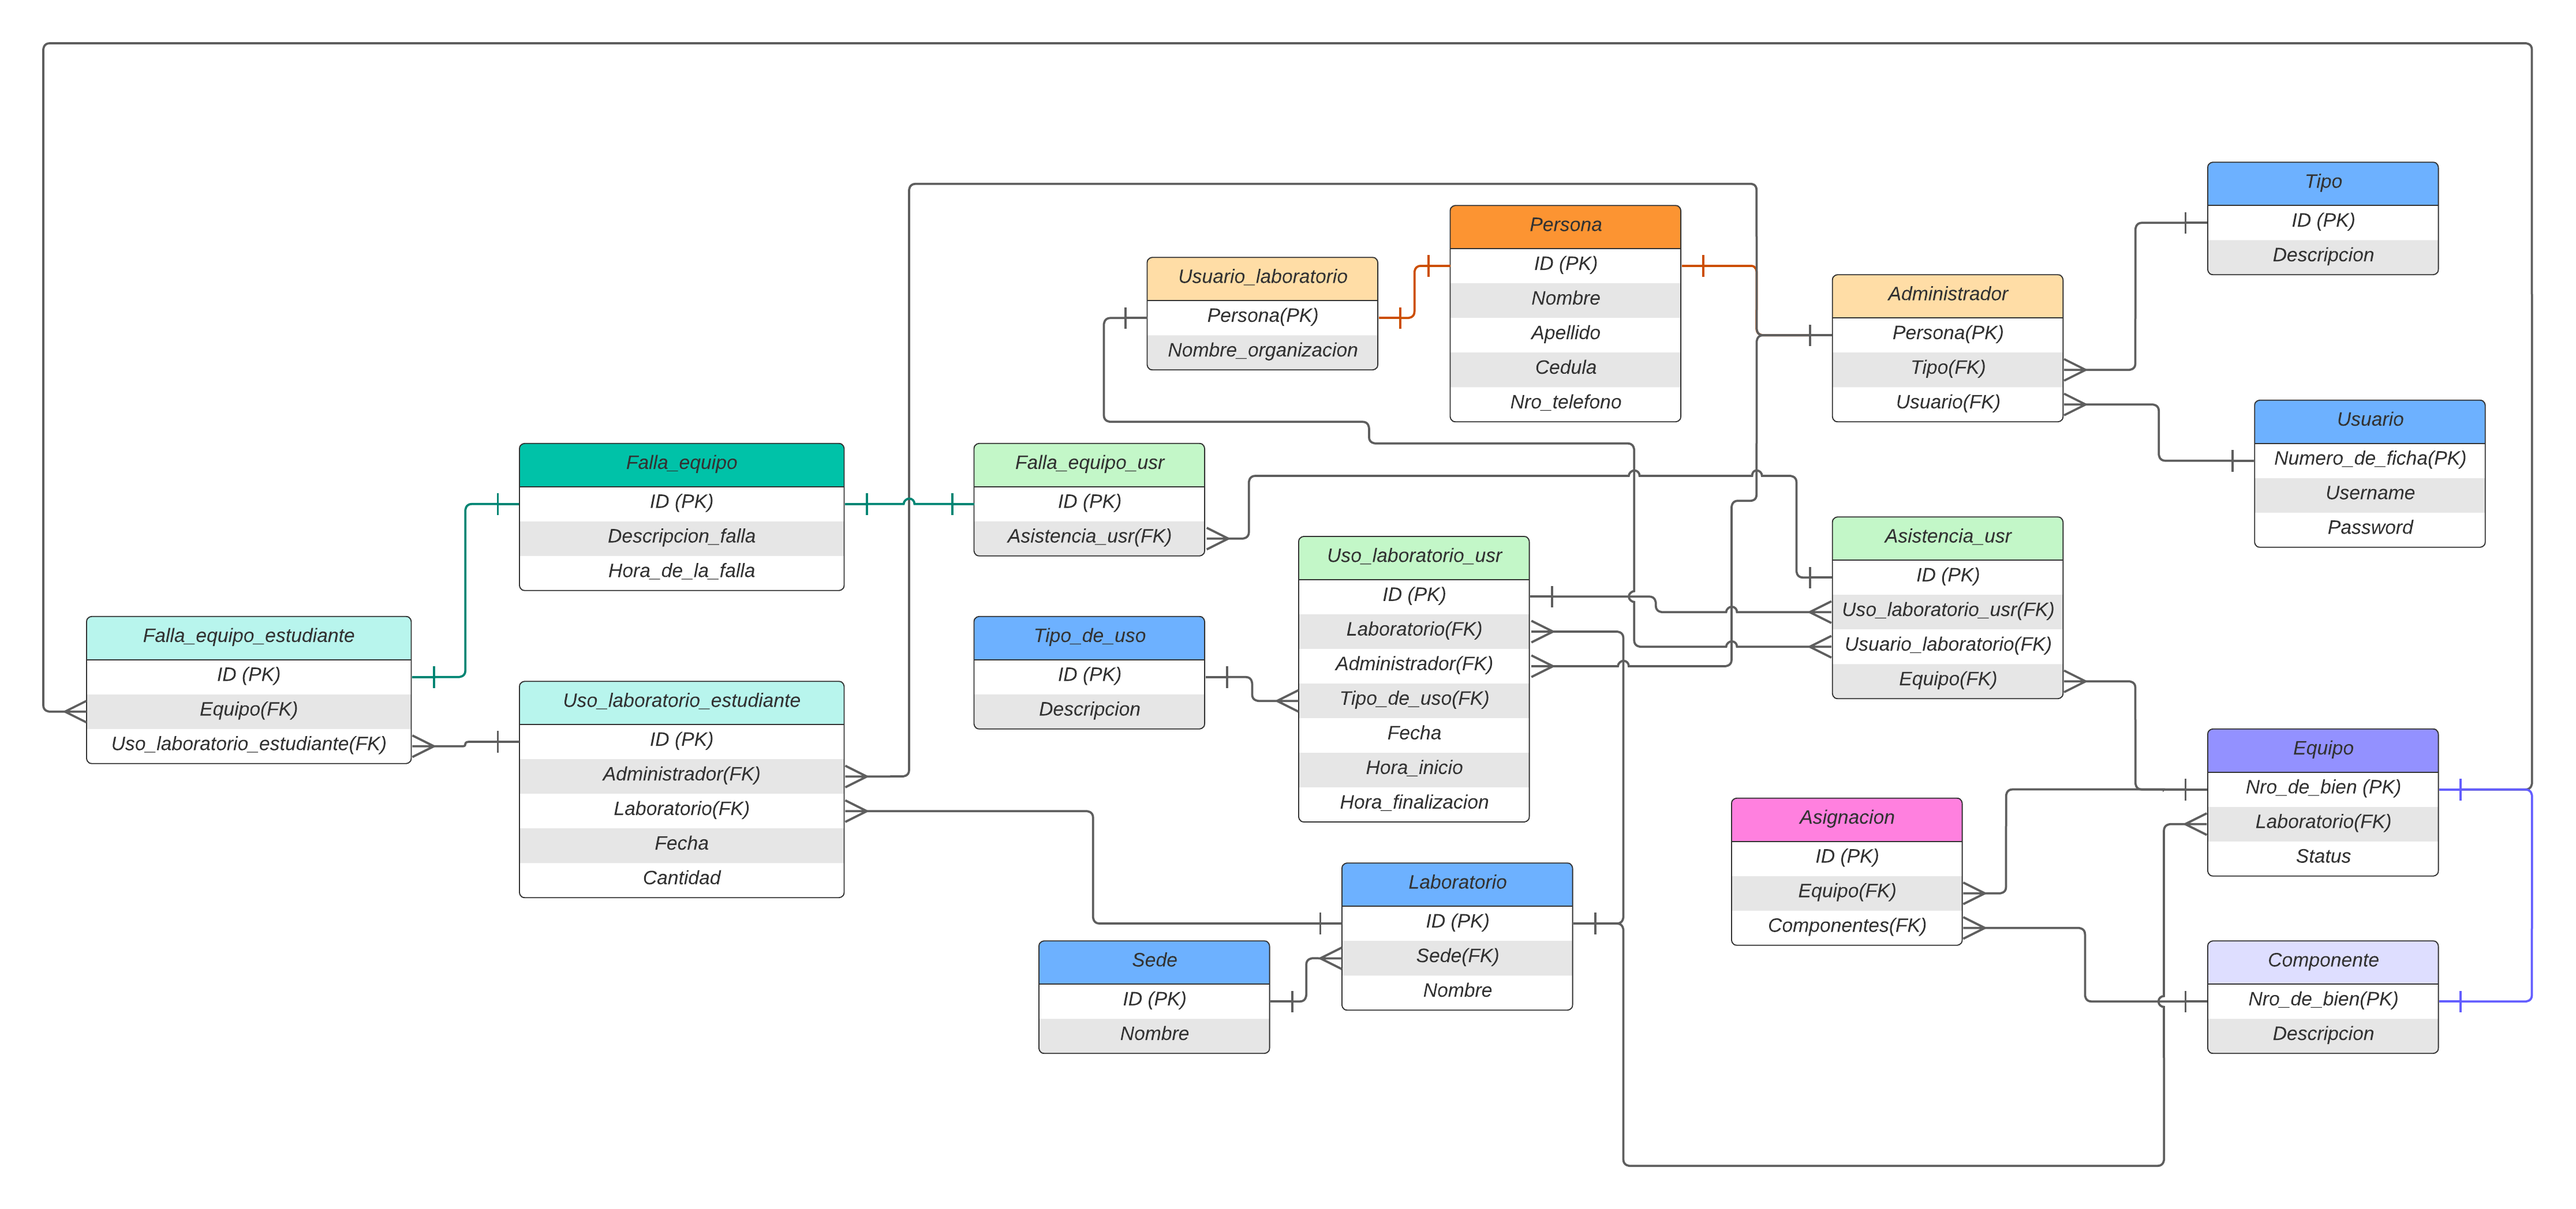
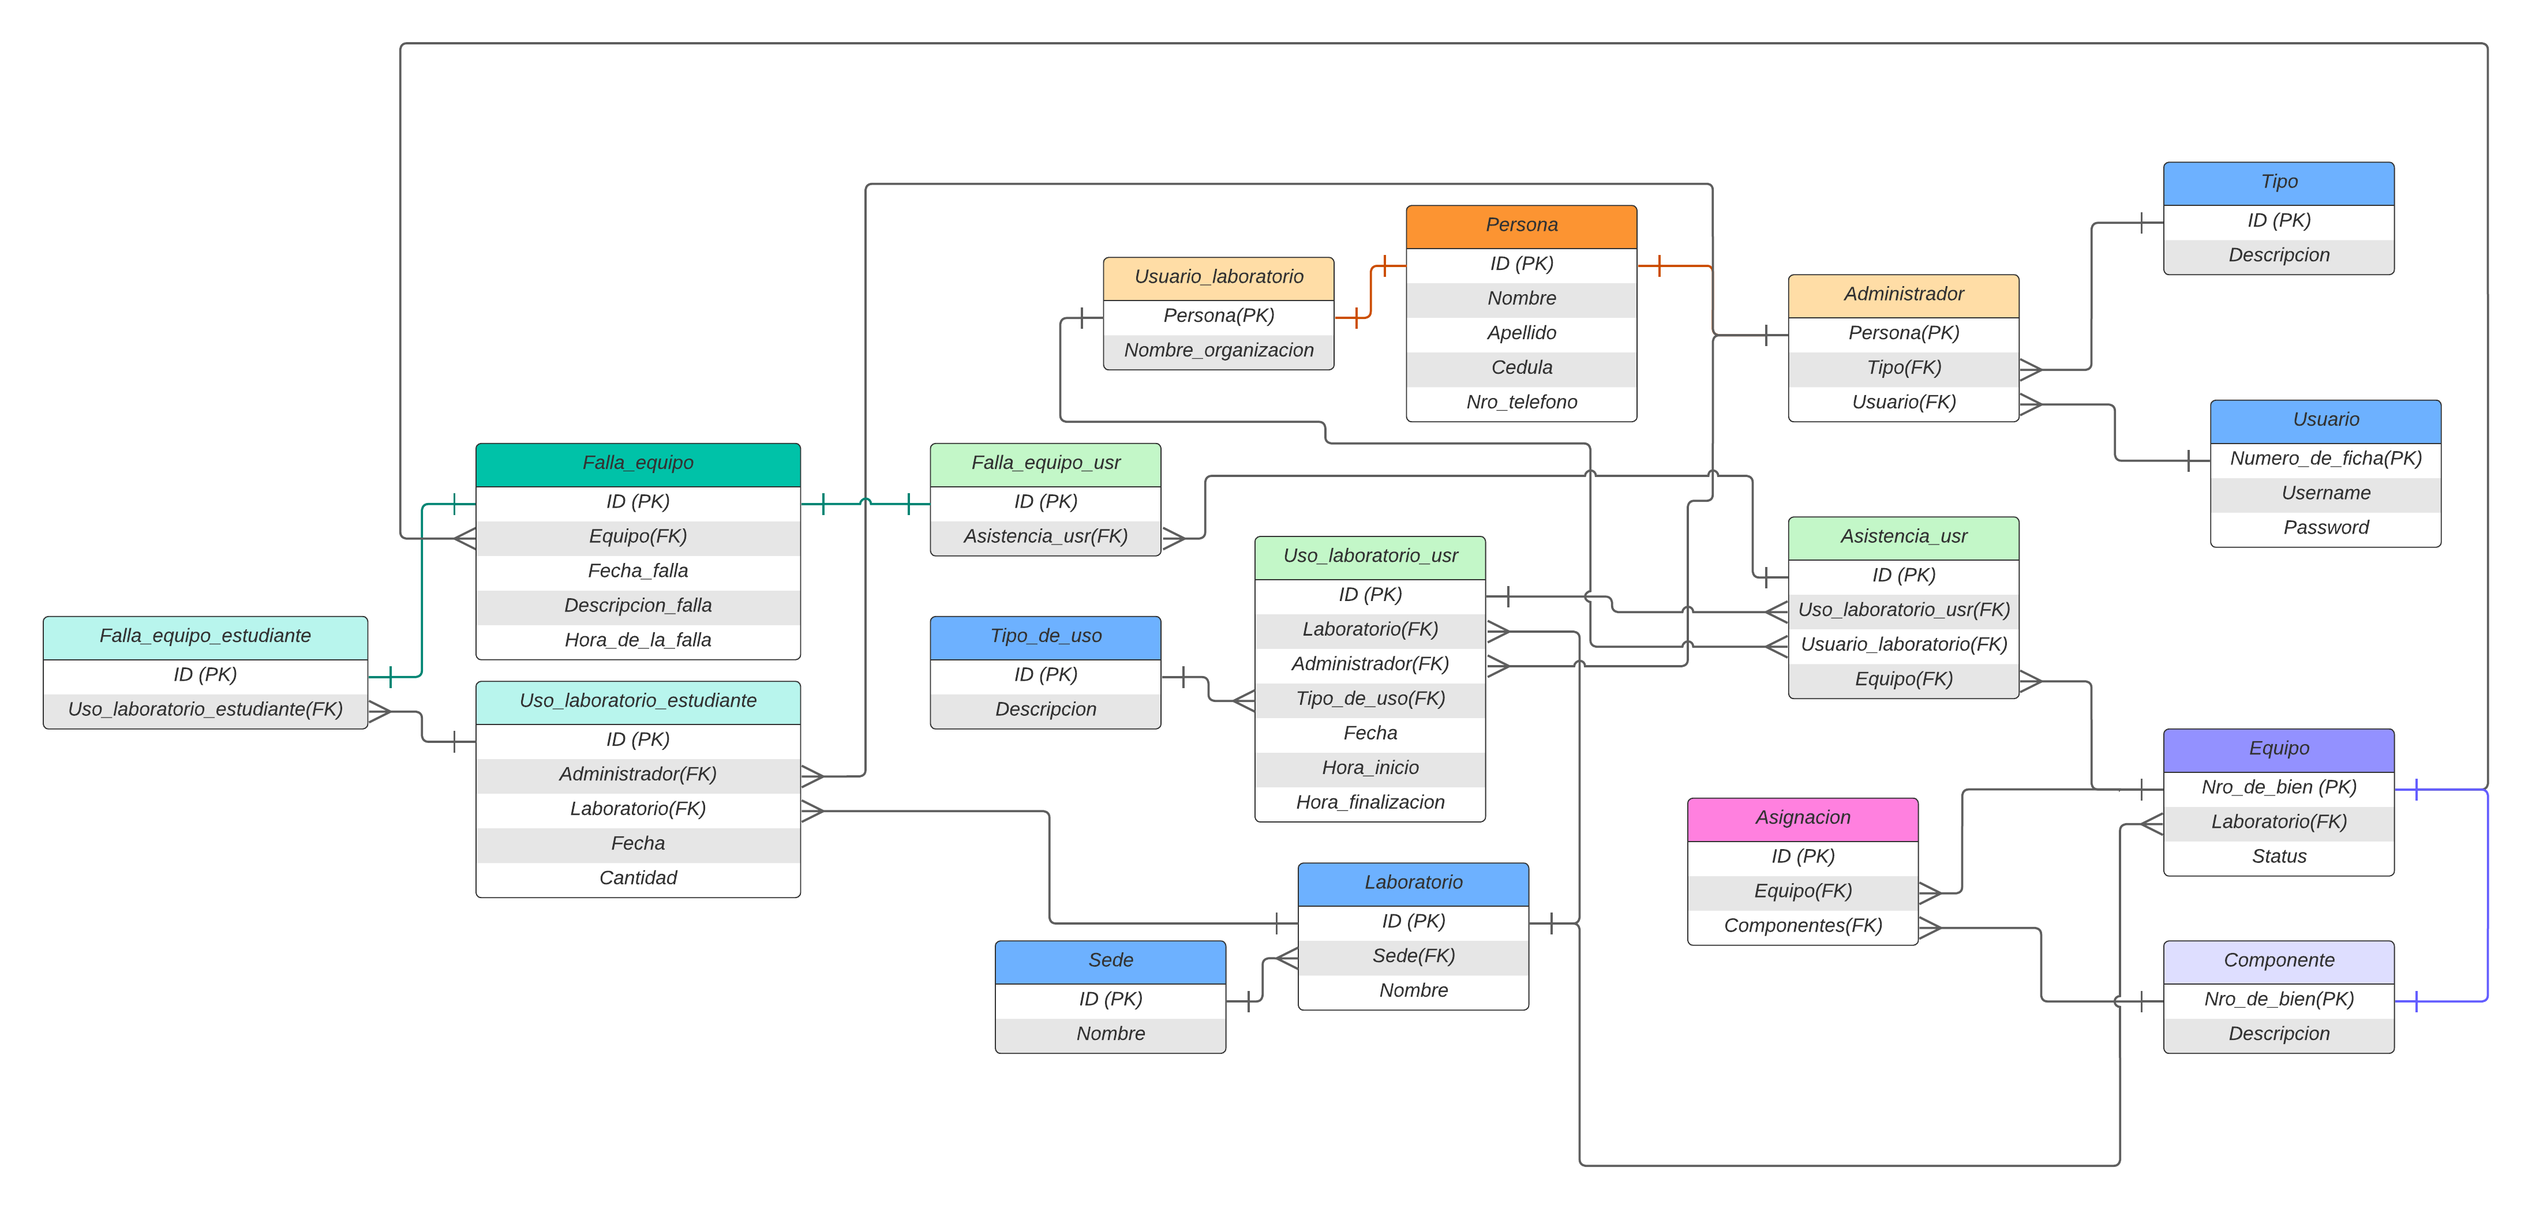
fixes bugs

diff --git a/db_manager.py b/db_manager.py
@@ -231,11 +231,14 @@ class DBManager:
             )
             """,
             """
-        CREATE TABLE IF NOT EXISTS "Falla_equipo"(
-            "ID" INTEGER,
-            "Descripcion_falla" TEXT,
-            "Hora_de_la_falla" TEXT,
-            PRIMARY KEY ("ID" AUTOINCREMENT)
+            CREATE TABLE IF NOT EXISTS "Falla_equipo"(
+                "ID" INTEGER,
+                "Equipo" INTEGER,
+                "Fecha_falla" TEXT,
+                "Descripcion_falla" TEXT,
+                "Hora_de_la_falla" TEXT,
+                PRIMARY KEY ("ID" AUTOINCREMENT),
+                FOREIGN KEY("Equipo") REFERENCES "Equipo"("Nro_de_bien") ON UPDATE CASCADE
             )
             """,
             """
@@ -262,11 +265,9 @@ class DBManager:
             """
             CREATE TABLE IF NOT EXISTS "Falla_equipo_estudiante" (
                 "ID"	INTEGER,
-                "Equipo"	INTEGER NOT NULL,
                 "Uso_laboratorio_estudiante"	INTEGER NOT NULL,
                 PRIMARY KEY("ID"),
                 FOREIGN KEY("ID") REFERENCES "Falla_equipo"("ID") ON UPDATE CASCADE,
-                FOREIGN KEY("Equipo") REFERENCES "Equipo"("Nro_de_bien") ON UPDATE CASCADE,
                 FOREIGN KEY("Uso_laboratorio_estudiante") REFERENCES "Uso_laboratorio_estudiante"("ID") ON UPDATE CASCADE
             )
             """
@@ -814,18 +815,18 @@ class DBManager:
         print("Fallas de equipos registradas correctamente.")
         return True
 
-    def registrar_falla_equipo_completa(self, asistencia_id, descripcion_falla, hora_falla):
+    def registrar_falla_equipo_completa(self, asistencia_id, equipo_id, descripcion_falla, fecha_falla, hora_falla):
         """
-        Registra una falla de equipo con descripción y hora en Falla_equipo,
+        Registra una falla de equipo con descripción, fecha y hora en Falla_equipo,
         y la relaciona con la asistencia en Falla_equipo_usr.
         Retorna True si ambas inserciones fueron exitosas, False si hubo error.
         """
         # Insertar en Falla_equipo
         falla_sql = """
-            INSERT INTO Falla_equipo (Descripcion_falla, Hora_de_la_falla)
-            VALUES (?, ?)
+            INSERT INTO Falla_equipo (Equipo, Fecha_falla, Descripcion_falla, Hora_de_la_falla)
+            VALUES (?, ?, ?, ?)
         """
-        result_falla = self.execute_query(falla_sql, (descripcion_falla, hora_falla), commit=True)
+        result_falla = self.execute_query(falla_sql, (equipo_id, fecha_falla, descripcion_falla, hora_falla), commit=True)
         if result_falla is None:
             print("Error al insertar en Falla_equipo.")
             return False

diff --git a/Views/carga_asistencia.py b/Views/carga_asistencia.py
@@ -442,13 +442,15 @@ class CargaAsistencia(ctk.CTkFrame):
             if last_ids:
                 asistencias = [row[0] for row in last_ids]
             for idx, widgets in enumerate(self.equipos_entries):
-                #nro_bien = widgets[1].get()
+                nro_bien = widgets[1].get()
                 descripcion = widgets[3].get()
                 hora_falla = widgets[5].get_time()
                 asistencia_id = asistencias[idx] if idx < len(asistencias) else None
+                fecha_falla = self.entry_fecha.get()  # Usar la fecha seleccionada
+                equipo_id = nro_bien  # El número de bien es el ID del equipo
                 if asistencia_id:
                     resultado_falla = self.db_manager.registrar_falla_equipo_completa(
-                        asistencia_id, descripcion, hora_falla
+                        asistencia_id, equipo_id, descripcion, fecha_falla, hora_falla
                     )
                     print(f"Resultado registrar_falla_equipo_completa: {resultado_falla}")
                     if not resultado_falla:
